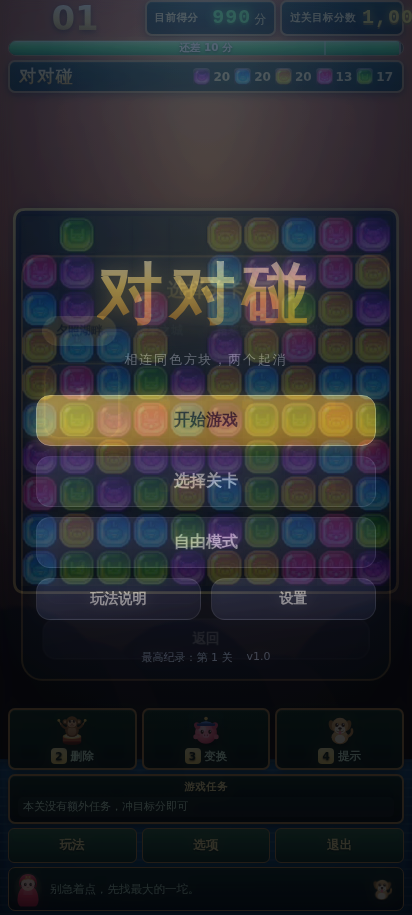
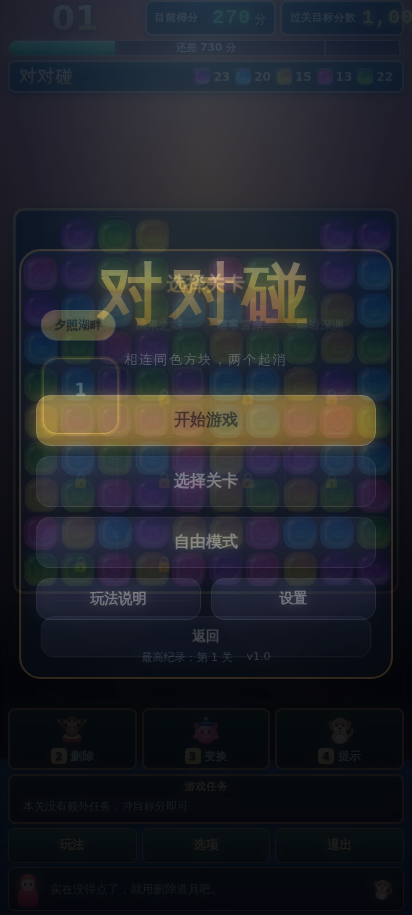
方块贴图换成从无水印截图抠的高清版
之前的贴图来自录屏，只有 40px，放大后偏糊。无水印截图里的方块是
77px，清晰近一倍；虽然只有一帧，但同一种方块在棋盘上有二十来个实例，
对这些实例做中位数叠加同样能压掉 JPEG 噪点。

- 新增 tools/rip-clean.py 做这件事，finalize-assets.py 优先用高清源、
  缺失时自动退回录屏版
- 配色表（GEM_COLORS）随之从新贴图重新反推，UI 色块、粒子、发光
  继续与棋盘方块严丝合缝

引擎 60、浏览器 46、音频 11 项全部通过，难度曲线全程合理。

diff --git a/src/core/config.js b/src/core/config.js
@@ -17,13 +17,13 @@
  * 只有在把颜色数调到 6~7 时才会用到。
  */
 export const GEM_COLORS = [
-  { key: 'purple',   name: '紫', main: '#a330c8', light: '#ea93f8', dark: '#3a0859', glow: '#c41ffa' },
-  { key: 'blue',     name: '蓝', main: '#2baae8', light: '#8ceffa', dark: '#0e3370', glow: '#10b0ff' },
-  { key: 'orange',   name: '橙', main: '#dea822', light: '#f7e152', dark: '#7e4d11', glow: '#ffb706' },
-  { key: 'pink',     name: '粉', main: '#e83da4', light: '#f899ee', dark: '#720f36', glow: '#ff26a9' },
-  { key: 'green',    name: '绿', main: '#69be21', light: '#b4ee55', dark: '#156007', glow: '#73ed0b' },
-  { key: 'red',      name: '红', main: '#e2451e', light: '#f68956', dark: '#8b100c', glow: '#ff3300' },
-  { key: 'cyan',     name: '青', main: '#1dc1a5', light: '#55e6d4', dark: '#084c5b', glow: '#05f1c8' }
+  { key: 'purple',   name: '紫', main: '#a930cd', light: '#ee97fb', dark: '#3e0b54', glow: '#cb1eff' },
+  { key: 'blue',     name: '蓝', main: '#2dadef', light: '#8cf4fe', dark: '#193c7b', glow: '#10aeff' },
+  { key: 'orange',   name: '橙', main: '#e6ac13', light: '#fae93d', dark: '#8e5211', glow: '#ffb800' },
+  { key: 'pink',     name: '粉', main: '#f03eab', light: '#fe94f0', dark: '#771139', glow: '#ff25aa' },
+  { key: 'green',    name: '绿', main: '#69bd15', light: '#bbef42', dark: '#1a5f04', glow: '#76ec00' },
+  { key: 'red',      name: '红', main: '#e53c14', light: '#f78343', dark: '#98100e', glow: '#ff3000' },
+  { key: 'cyan',     name: '青', main: '#10c09f', light: '#46e6cd', dark: '#064f59', glow: '#00f0c3' }
 ];
 
 /** 方块的特殊属性 */

diff --git a/tools/rip-clean.py b/tools/rip-clean.py
@@ -1,0 +1,78 @@
+# -*- coding: utf-8 -*-
+"""
+从无水印原版截图里提取高清方块贴图
+------------------------------------------------------------------
+这张截图的方块是 77px，比录屏的 40px 清晰近一倍。
+虽然只有一帧，但同一种方块在棋盘上有二十来个实例，
+对它们做中位数叠加同样能压掉 JPEG 噪点。
+
+做法：切出 100 个格子 → 指纹细聚类 → 用去噪后的中位图归并成大类
+      → 每类再叠一次 → 放大锐化输出。
+"""
+import os, colorsys, warnings
+warnings.filterwarnings("ignore")
+from PIL import Image, ImageFilter
+
+SRC = "/home/user/duidui/assets/art/original/clean-stage.png"
+OUT = "/home/user/duidui/assets/art/original"
+BOARD_X, BOARD_Y, CELL, COLS, ROWS = 10, 231, 77.4, 10, 10
+
+im = Image.open(SRC).convert("RGB")
+cells = []
+for r in range(ROWS):
+    for c in range(COLS):
+        x0 = BOARD_X + int(round(c * CELL)); y0 = BOARD_Y + int(round(r * CELL))
+        cells.append(im.crop((x0, y0, x0 + int(round(CELL)), y0 + int(round(CELL)))))
+print(f"切出 {len(cells)} 个格子，每个 {cells[0].size[0]}×{cells[0].size[1]}")
+
+def fp(img, n=8): return list(img.resize((n, n), Image.BILINEAR).getdata())
+def d2(a, b): return sum((p[0]-q[0])**2+(p[1]-q[1])**2+(p[2]-q[2])**2 for p, q in zip(a, b))/len(a)
+
+def median(imgs):
+    datas = [list(i.getdata()) for i in imgs]
+    mid = len(datas)//2
+    w, h = imgs[0].size
+    out = Image.new("RGB", (w, h))
+    out.putdata([(sorted(d[i][0] for d in datas)[mid],
+                  sorted(d[i][1] for d in datas)[mid],
+                  sorted(d[i][2] for d in datas)[mid]) for i in range(w*h)])
+    return out
+
+def hue_of(img):
+    px = [p for p in img.resize((10, 10), Image.BILINEAR).getdata() if max(p) > 80]
+    if not px: return 0
+    r = sum(p[0] for p in px)/len(px); g = sum(p[1] for p in px)/len(px); b = sum(p[2] for p in px)/len(px)
+    return colorsys.rgb_to_hsv(r/255, g/255, b/255)[0]*360
+
+# 细聚类
+fine = []
+for img in cells:
+    f = fp(img); hit = None
+    for cl in fine:
+        if d2(f, cl['fp']) < 900: hit = cl; break
+    if hit: hit['imgs'].append(img)
+    else:   fine.append({'fp': f, 'imgs': [img]})
+for cl in fine:
+    cl['med'] = median(cl['imgs']) if len(cl['imgs']) > 2 else cl['imgs'][0]
+    cl['mfp'] = fp(cl['med'], 12)
+
+# 用干净的中位图归并
+groups = []
+for cl in sorted(fine, key=lambda c: -len(c['imgs'])):
+    hit = None
+    for g in groups:
+        if d2(cl['mfp'], g['mfp']) < 2600: hit = g; break
+    if hit: hit['imgs'].extend(cl['imgs'])
+    else:   groups.append({'mfp': cl['mfp'], 'imgs': list(cl['imgs']), 'med': cl['med']})
+groups.sort(key=lambda g: -len(g['imgs']))
+print("归并成 " + str(len(groups)) + " 类：" +
+      "  ".join(f"{round(hue_of(g['med']))}°/{len(g['imgs'])}个" for g in groups))
+
+def upscale(img, k=2):
+    big = img.resize((img.width*k, img.height*k), Image.LANCZOS)
+    return big.filter(ImageFilter.UnsharpMask(radius=2, percent=55, threshold=3))
+
+for i, g in enumerate(groups[:14]):
+    med = median(g['imgs'])
+    med.save(f"{OUT}/hd-block-{i}.png")
+    print(f"  hd-block-{i}.png  色相{round(hue_of(med)):>3}°  {len(g['imgs'])} 个样本")

diff --git a/tools/finalize-assets.py b/tools/finalize-assets.py
@@ -12,17 +12,34 @@ SRC = "/home/user/duidui/assets/art/original"
 OUT = "/home/user/duidui/assets/blocks"
 os.makedirs(OUT, exist_ok=True)
 
-# rip.py 的输出顺序：0紫 1蓝 2橙 3粉 4绿，5 是绿色小人（魔术方块）
-PICK = [
-    ("purple", "raw-block-0.png", "紫"),
-    ("blue",   "raw-block-1.png", "蓝"),
-    ("orange", "raw-block-2.png", "橙"),
-    ("pink",   "raw-block-3.png", "粉"),
-    ("green",  "raw-block-4.png", "绿"),
-]
-MAGIC = "raw-block-5.png"
+# 素材优先用 rip-clean.py 从无水印截图里抠的高清版（77px，比录屏的 40px
+# 清晰近一倍）；缺失时退回录屏版。
+# rip-clean.py 的聚类顺序：0绿 1橙 2紫 3粉 4蓝，第 11 类是绿色小人（魔术方块）。
+HD = os.path.exists(f"{SRC}/hd-block-0.png")
+if HD:
+    PICK = [
+        ("purple", "hd-block-2.png", "紫"),
+        ("blue",   "hd-block-4.png", "蓝"),
+        ("orange", "hd-block-1.png", "橙"),
+        ("pink",   "hd-block-3.png", "粉"),
+        ("green",  "hd-block-0.png", "绿"),
+    ]
+    MAGIC = "hd-block-11.png"
+    UP = 2          # 77px ×2 = 154px，够用了
+else:
+    PICK = [
+        ("purple", "raw-block-0.png", "紫"),
+        ("blue",   "raw-block-1.png", "蓝"),
+        ("orange", "raw-block-2.png", "橙"),
+        ("pink",   "raw-block-3.png", "粉"),
+        ("green",  "raw-block-4.png", "绿"),
+    ]
+    MAGIC = "raw-block-5.png"
+    UP = 4
+print(("使用高清素材（无水印截图）" if HD else "使用录屏素材") + f"，放大 {UP} 倍")
 
-def upscale(img, k=4):
+def upscale(img, k=None):
+    k = k or UP
     big = img.resize((img.width*k, img.height*k), Image.LANCZOS)
     return big.filter(ImageFilter.UnsharpMask(radius=2, percent=65, threshold=2))
 
@@ -67,8 +84,8 @@ for i, (key, fn, cn) in enumerate(PICK):
     print(f"  {i}.png  {cn}  main={p['main']}  light={p['light']}  dark={p['dark']}")
 
 # 备用色：由橙旋转出朱红、由绿旋转出青
-base_orange = Image.open(os.path.join(SRC, "raw-block-2.png")).convert("RGB")
-base_green  = Image.open(os.path.join(SRC, "raw-block-4.png")).convert("RGB")
+base_orange = Image.open(os.path.join(SRC, PICK[2][1])).convert("RGB")
+base_green  = Image.open(os.path.join(SRC, PICK[4][1])).convert("RGB")
 for i, (key, cn, base, deg) in enumerate([
     ("red",  "红", base_orange, -32),
     ("cyan", "青", base_green,   82),

diff --git a/README.md b/README.md
@@ -136,7 +136,7 @@ src/
 
 assets/
   blocks/        从原版录屏提取的方块贴图
-  stage/         原版还原模式的界面底板
+  stage/         原版还原模式的界面底板（取自无水印原版截图）
   art/           角色立绘（SVG，自绘）与提取素材的中间产物
   icons/         应用图标
 tools/           自测与调参工具（见下）
@@ -163,6 +163,7 @@ npm run icons          # 重新生成应用图标
 不是拍脑袋定的，是量出来的：
 
 - **`tools/rip.py`** 把原版录屏的棋盘逐格切开，多帧中位数叠加去噪后聚类，自动分出原版的 5 种方块和魔术方块。**「方块会从上往下掉落」这条规则就是这么确认的** —— 解出每帧的占位矩阵后发现每一列都严格底对齐，且消除一格后该列上方整体下移一行。
+- **`tools/rip-clean.py`** 从一张无水印的原版截图里抠高清方块（77px，比录屏清晰近一倍）。虽然只有一帧，但同一种方块在棋盘上有二十来个实例，对它们中位数叠加同样能压掉 JPEG 噪点。
 - **`tools/finalize-assets.py`** 从提取出的贴图里反推每种颜色的主色、高光、暗部，写进 `GEM_COLORS`，所以 UI 上的色块、粒子、发光和棋盘方块是同一套颜色。
 - **单组得分系数 = 10**：录屏里连续两次「消掉 2 个」，分数都是 300→320→340，即 `n=2` 恰好 20 分，反推 `10×n×(n−1)`。
 - **`tools/curve.mjs`** 用机器人在真实棋盘上跑几千局，实测出「单格期望产出分」。
